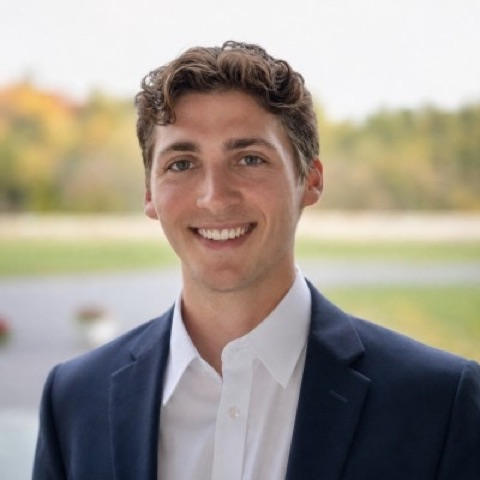
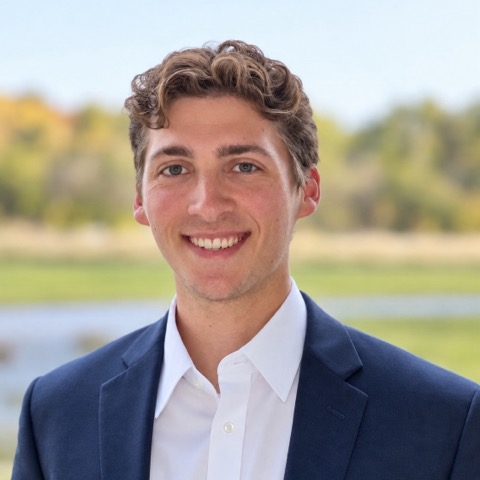
Keep the Claude connector on home, new headshot for Connor

diff --git a/templates/home.html b/templates/home.html
@@ -114,6 +114,53 @@
         </div>
       </div>
     </section>
+
+    <section class="fd-section fd-fill fd-mcp">
+      <div class="fd-wrap">
+        <div class="fd-mcp-card fd-reveal">
+          <div class="fd-mcp-top">
+            <div class="fd-mcp-icon" aria-hidden="true">
+              <svg class="gn-logo" viewBox="0 0 64 64" width="30" height="30" focusable="false">
+                <defs>
+                  <linearGradient id="fd-mcp-beam" x1="18" y1="46" x2="54" y2="16" gradientUnits="userSpaceOnUse">
+                    <stop offset="0" style="stop-color: var(--logo-hue)" stop-opacity="0.22"/>
+                    <stop offset="1" style="stop-color: var(--logo-hue)" stop-opacity="0.03"/>
+                  </linearGradient>
+                </defs>
+                <path d="M18 46 L52 2 L58 34 Z" fill="url(#fd-mcp-beam)"/>
+                <path d="M18 46 L30 33 L39 38 L52 18" fill="none" style="stroke: var(--logo-hue)" stroke-width="3.6" stroke-linecap="round" stroke-linejoin="round"/>
+                <circle cx="52" cy="18" r="4.2" style="fill: var(--logo-hue)"/>
+                <circle cx="18" cy="46" r="4.6" style="fill: var(--logo-ink)"/>
+              </svg>
+            </div>
+            <div class="fd-mcp-copy">
+              <p class="fd-mcp-kicker">Works with Claude</p>
+              <h2 class="fd-mcp-title">Ward Wise connects to Claude.</h2>
+              <p class="fd-mcp-sub">Ask about any Chicago ward in plain English and get an answer sourced from the same public data as this site.</p>
+            </div>
+          </div>
+          <div class="fd-mcp-tiles">
+            <a class="fd-mcp-tile" href="{{ url_for('connect') }}">
+              <p class="fd-mcp-tile-label">Claude on the web</p>
+              <code class="fd-mcp-tile-url">https://wardwise-redesign.netlify.app/mcp</code>
+              <span class="fd-mcp-tile-cta">How to connect</span>
+            </a>
+            <a class="fd-mcp-tile" href="{{ url_for('static', filename='downloads/wardwise.mcpb') }}" download="wardwise.mcpb">
+              <p class="fd-mcp-tile-label">Claude Desktop</p>
+              <p class="fd-mcp-tile-meta">170 KB download</p>
+              <span class="fd-mcp-tile-cta">Download</span>
+            </a>
+            <div class="fd-mcp-tile fd-mcp-tile-code">
+              <p class="fd-mcp-tile-label">Claude Code</p>
+              <div class="fd-mcp-code-row">
+                <code id="fd-mcp-cli">claude mcp add --transport http wardwise https://wardwise-redesign.netlify.app/mcp</code>
+                <button type="button" class="fd-mcp-copy-btn" data-mcp-copy="fd-mcp-cli">Copy</button>
+              </div>
+            </div>
+          </div>
+        </div>
+      </div>
+    </section>
   </main>
 {% endblock %}
 
@@ -121,4 +168,26 @@
   <script src="{{ url_for('static', filename='common.js', v=asset_version) }}"></script>
   <script src="{{ url_for('static', filename='civic_map.js', v=asset_version) }}"></script>
   <script src="{{ url_for('static', filename='frontdoor.js', v=asset_version) }}"></script>
+  <script>
+    (function () {
+      var button = document.querySelector(".fd-mcp [data-mcp-copy]");
+      if (!button) return;
+      var timer = null;
+      button.addEventListener("click", function () {
+        var target = document.getElementById(button.getAttribute("data-mcp-copy"));
+        if (!target) return;
+        var done = function (ok) {
+          clearTimeout(timer);
+          button.textContent = ok ? "Copied" : "Select and copy";
+          button.classList.toggle("is-copied", ok);
+          timer = setTimeout(function () { button.textContent = "Copy"; button.classList.remove("is-copied"); }, 1800);
+        };
+        if (navigator.clipboard && navigator.clipboard.writeText) {
+          navigator.clipboard.writeText(target.textContent.trim()).then(function () { done(true); }, function () { done(false); });
+        } else {
+          done(false);
+        }
+      });
+    })();
+  </script>
 {% endblock %}

diff --git a/site/index.html b/site/index.html
@@ -201,6 +201,53 @@
         </div>
       </div>
     </section>
+
+    <section class="fd-section fd-fill fd-mcp">
+      <div class="fd-wrap">
+        <div class="fd-mcp-card fd-reveal">
+          <div class="fd-mcp-top">
+            <div class="fd-mcp-icon" aria-hidden="true">
+              <svg class="gn-logo" viewBox="0 0 64 64" width="30" height="30" focusable="false">
+                <defs>
+                  <linearGradient id="fd-mcp-beam" x1="18" y1="46" x2="54" y2="16" gradientUnits="userSpaceOnUse">
+                    <stop offset="0" style="stop-color: var(--logo-hue)" stop-opacity="0.22"/>
+                    <stop offset="1" style="stop-color: var(--logo-hue)" stop-opacity="0.03"/>
+                  </linearGradient>
+                </defs>
+                <path d="M18 46 L52 2 L58 34 Z" fill="url(#fd-mcp-beam)"/>
+                <path d="M18 46 L30 33 L39 38 L52 18" fill="none" style="stroke: var(--logo-hue)" stroke-width="3.6" stroke-linecap="round" stroke-linejoin="round"/>
+                <circle cx="52" cy="18" r="4.2" style="fill: var(--logo-hue)"/>
+                <circle cx="18" cy="46" r="4.6" style="fill: var(--logo-ink)"/>
+              </svg>
+            </div>
+            <div class="fd-mcp-copy">
+              <p class="fd-mcp-kicker">Works with Claude</p>
+              <h2 class="fd-mcp-title">Ward Wise connects to Claude.</h2>
+              <p class="fd-mcp-sub">Ask about any Chicago ward in plain English and get an answer sourced from the same public data as this site.</p>
+            </div>
+          </div>
+          <div class="fd-mcp-tiles">
+            <a class="fd-mcp-tile" href="/connect">
+              <p class="fd-mcp-tile-label">Claude on the web</p>
+              <code class="fd-mcp-tile-url">https://wardwise-redesign.netlify.app/mcp</code>
+              <span class="fd-mcp-tile-cta">How to connect</span>
+            </a>
+            <a class="fd-mcp-tile" href="/static/downloads/wardwise.mcpb" download="wardwise.mcpb">
+              <p class="fd-mcp-tile-label">Claude Desktop</p>
+              <p class="fd-mcp-tile-meta">170 KB download</p>
+              <span class="fd-mcp-tile-cta">Download</span>
+            </a>
+            <div class="fd-mcp-tile fd-mcp-tile-code">
+              <p class="fd-mcp-tile-label">Claude Code</p>
+              <div class="fd-mcp-code-row">
+                <code id="fd-mcp-cli">claude mcp add --transport http wardwise https://wardwise-redesign.netlify.app/mcp</code>
+                <button type="button" class="fd-mcp-copy-btn" data-mcp-copy="fd-mcp-cli">Copy</button>
+              </div>
+            </div>
+          </div>
+        </div>
+      </div>
+    </section>
   </main>
 
 
@@ -275,6 +322,28 @@
   <script src="/static/common.js?v=1791415380"></script>
   <script src="/static/civic_map.js?v=1791415380"></script>
   <script src="/static/frontdoor.js?v=1791415380"></script>
+  <script>
+    (function () {
+      var button = document.querySelector(".fd-mcp [data-mcp-copy]");
+      if (!button) return;
+      var timer = null;
+      button.addEventListener("click", function () {
+        var target = document.getElementById(button.getAttribute("data-mcp-copy"));
+        if (!target) return;
+        var done = function (ok) {
+          clearTimeout(timer);
+          button.textContent = ok ? "Copied" : "Select and copy";
+          button.classList.toggle("is-copied", ok);
+          timer = setTimeout(function () { button.textContent = "Copy"; button.classList.remove("is-copied"); }, 1800);
+        };
+        if (navigator.clipboard && navigator.clipboard.writeText) {
+          navigator.clipboard.writeText(target.textContent.trim()).then(function () { done(true); }, function () { done(false); });
+        } else {
+          done(false);
+        }
+      });
+    })();
+  </script>
 
   </body>
 </html>
